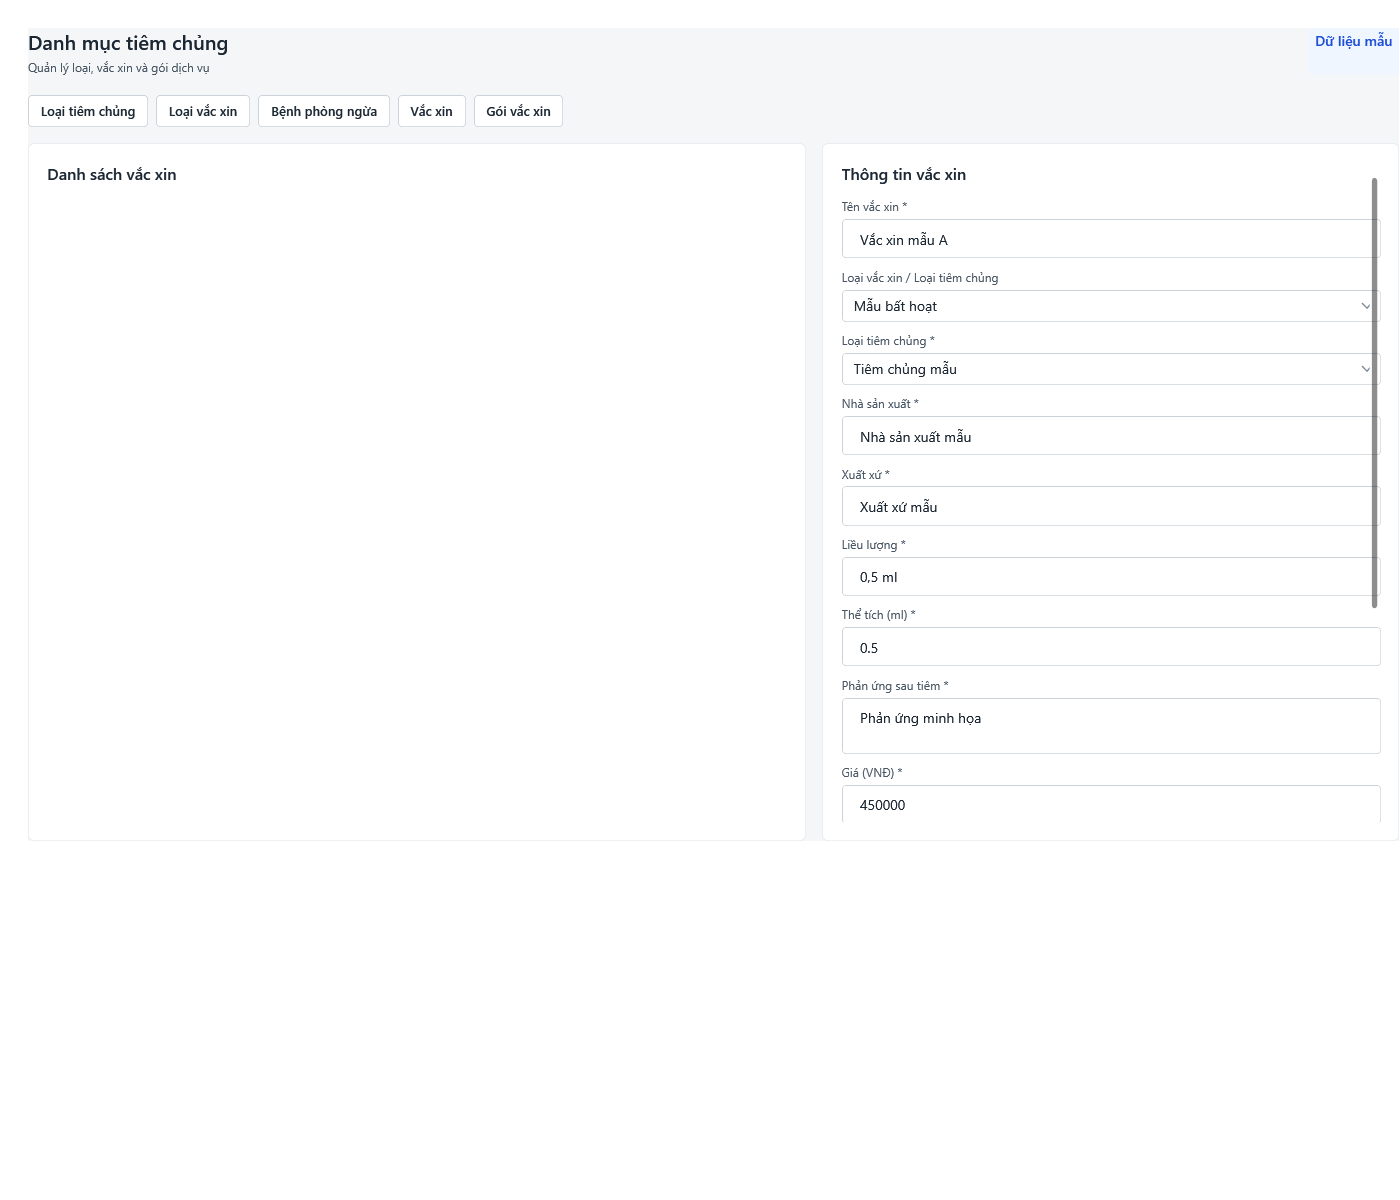
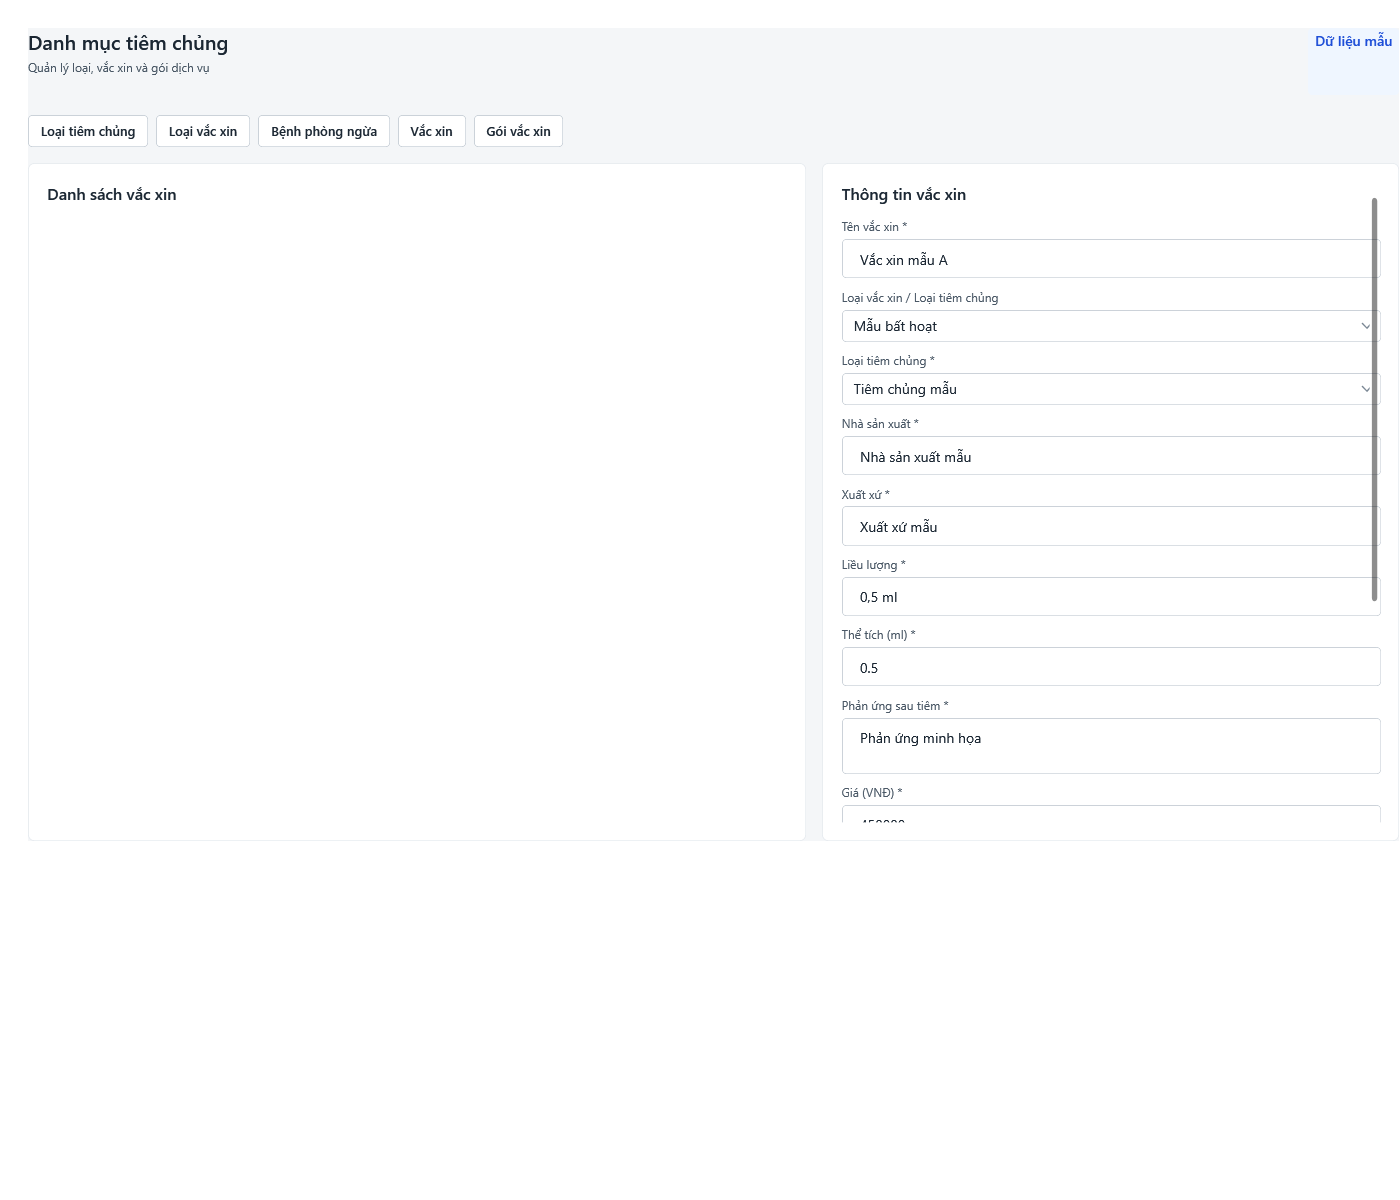
fix(windows): surface catalog validation state

Changed region(s): [[0.5836, 0.1233, 0.7064, 0.6783], [0.0307, 0.0925, 0.3993, 0.185]]

diff --git a/apps/windows/ViewsV2/CatalogView.xaml b/apps/windows/ViewsV2/CatalogView.xaml
@@ -1,6 +1,6 @@
 <UserControl x:Class="TiemChung.Desktop.ViewsV2.CatalogView" xmlns="http://schemas.microsoft.com/winfx/2006/xaml/presentation" xmlns:x="http://schemas.microsoft.com/winfx/2006/xaml" xmlns:vm="clr-namespace:TiemChung.Desktop.ViewModels">
  <UserControl.Resources><BooleanToVisibilityConverter x:Key="Vis"/><DataTemplate DataType="{x:Type vm:CatalogViewModel}"><Grid Margin="28" Background="{StaticResource CE.Canvas}"><Grid.RowDefinitions><RowDefinition Height="Auto"/><RowDefinition Height="Auto"/><RowDefinition Height="*"/></Grid.RowDefinitions>
-  <DockPanel LastChildFill="False"><StackPanel><TextBlock Text="Danh mục tiêm chủng" Style="{StaticResource CE.Heading}"/><TextBlock Text="Quản lý loại, vắc xin và gói dịch vụ" Style="{StaticResource CE.Caption}" Margin="0,5,0,0"/></StackPanel><Border DockPanel.Dock="Right" Style="{StaticResource CE.Badge.Info}" HorizontalAlignment="Right"><TextBlock Text="{Binding DataSourceLabel}"/></Border></DockPanel>
+  <DockPanel LastChildFill="False"><StackPanel><TextBlock Text="Danh mục tiêm chủng" Style="{StaticResource CE.Heading}"/><TextBlock Text="Quản lý loại, vắc xin và gói dịch vụ" Style="{StaticResource CE.Caption}" Margin="0,5,0,0"/><TextBlock Text="{Binding Validation}" Style="{StaticResource CE.Caption}" Foreground="{StaticResource CE.Danger.Foreground}" Margin="0,4,0,0"/></StackPanel><Border DockPanel.Dock="Right" Style="{StaticResource CE.Badge.Info}" HorizontalAlignment="Right"><TextBlock Text="{Binding DataSourceLabel}"/></Border></DockPanel>
   <ItemsControl Grid.Row="1" ItemsSource="{Binding Tabs}" Margin="0,20,0,16"><ItemsControl.ItemsPanel><ItemsPanelTemplate><StackPanel Orientation="Horizontal"/></ItemsPanelTemplate></ItemsControl.ItemsPanel><ItemsControl.ItemTemplate><DataTemplate><Button Content="{Binding}" Command="{Binding DataContext.SelectTabCommand, RelativeSource={RelativeSource AncestorType=ItemsControl}}" CommandParameter="{Binding}" Style="{StaticResource CE.Button.Secondary}" Margin="0,0,8,0"/></DataTemplate></ItemsControl.ItemTemplate></ItemsControl>
   <Grid Grid.Row="2"><Grid.ColumnDefinitions><ColumnDefinition Width="1.35*"/><ColumnDefinition Width="16"/><ColumnDefinition Width="1*"/></Grid.ColumnDefinitions>
    <Border Style="{StaticResource CE.Card}" Padding="18"><Grid><Grid.RowDefinitions><RowDefinition Height="Auto"/><RowDefinition Height="*"/><RowDefinition Height="Auto"/></Grid.RowDefinitions><TextBlock Text="Danh sách vắc xin" Style="{StaticResource CE.SectionHeading}"/><DataGrid Grid.Row="1" ItemsSource="{Binding Vaccines}" SelectedItem="{Binding Selected}" AutoGenerateColumns="False" IsReadOnly="True" CanUserAddRows="False" Margin="0,12,0,0"><DataGrid.Columns><DataGridTextColumn Header="Tên vắc xin" Binding="{Binding Name}" Width="*"/><DataGridTextColumn Header="Loại" Binding="{Binding VaccineType}" Width="120"/><DataGridTextColumn Header="Nhà sản xuất" Binding="{Binding Manufacturer}" Width="150"/><DataGridTextColumn Header="Giá" Binding="{Binding Price, StringFormat={}{0:N0} đ}" Width="100"/><DataGridTemplateColumn Header="Trạng thái" Width="120"><DataGridTemplateColumn.CellTemplate><DataTemplate><Border Padding="8,3" CornerRadius="10" Background="#FFE5E7EB"><TextBlock Text="{Binding Status}" Foreground="#FF6B7280"/></Border></DataTemplate></DataGridTemplateColumn.CellTemplate></DataGridTemplateColumn></DataGrid.Columns></DataGrid><TextBlock Grid.Row="2" Text="Chưa có dữ liệu từ nguồn đã kết nối." Style="{StaticResource CE.Caption}" HorizontalAlignment="Center" Margin="0,20,0,4" Visibility="{Binding HasNoData, Converter={StaticResource Vis}}"/></Grid></Border>
